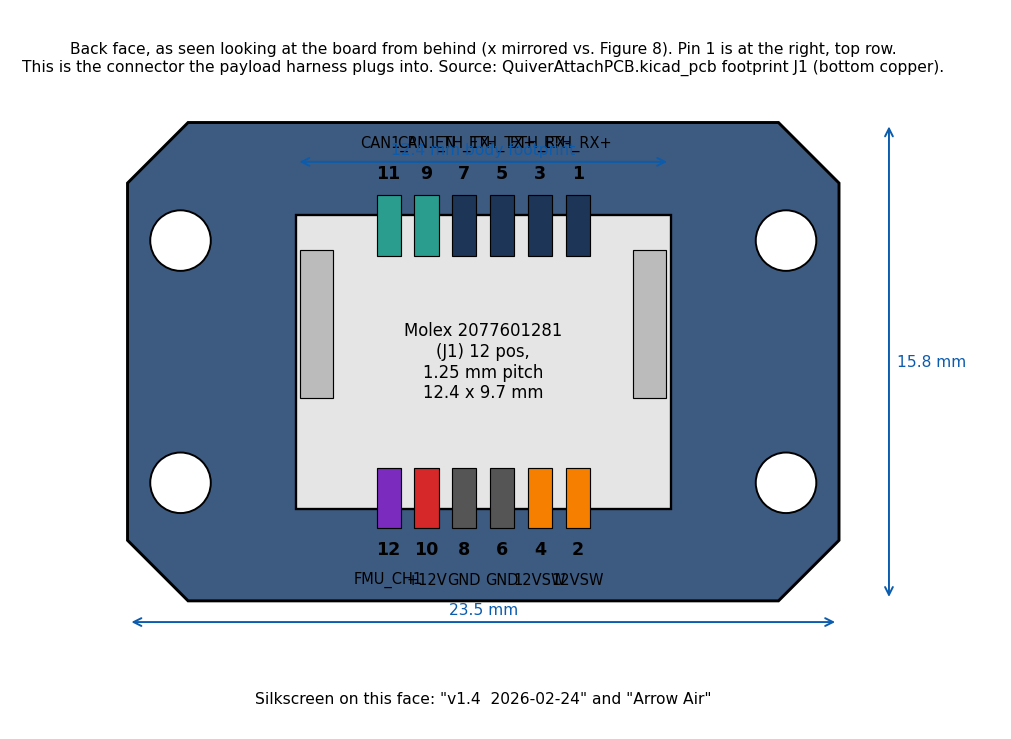
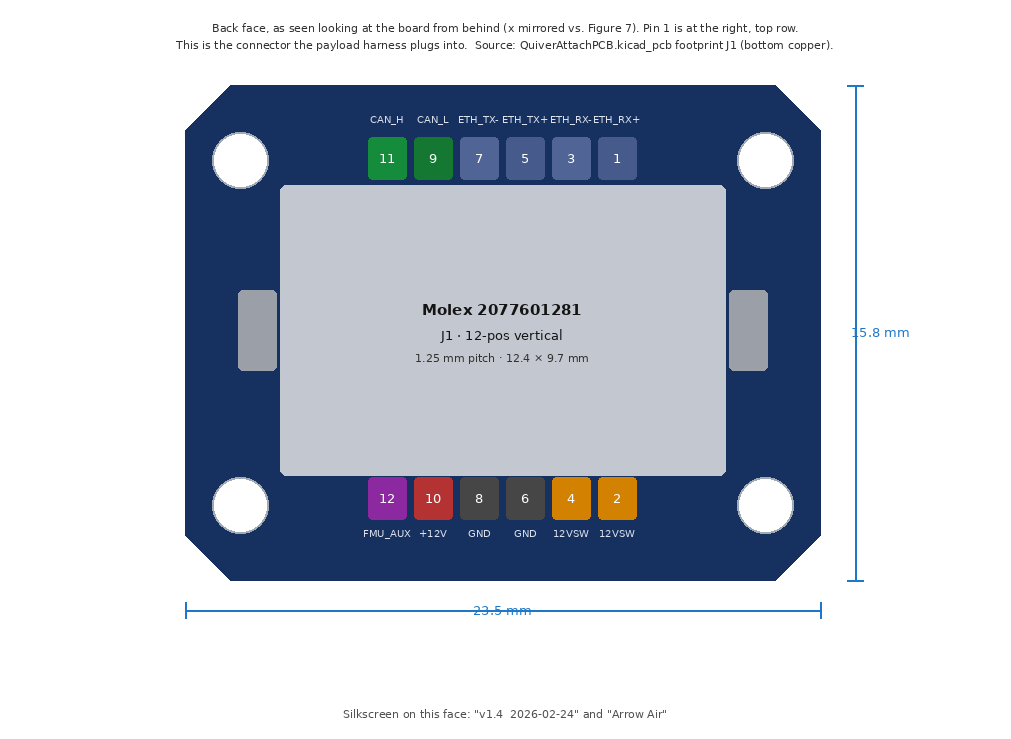
fix(docs): address PR #270 reviewer feedback on Attachment Developer Guide
- Fix fig04_ports_oblique.png: move overlapping caption text into a
  clean legend card so it no longer intersects the propeller blade
- Fix fig09_pcb_back_j1.png: completely redraw with legible pin labels,
  colour-coded pins (ETH blue, CAN green, 12V red, 12VSW orange,
  GND dark, FMU purple), and clear dimensions
- Terminology: replace 'blind-mate circuit board' with
  'Attachment Interface PCB' (§ How an Attachment Mates)
- JMRRC clamp: remove 'based on spec' wording; it IS the JMRRC
  quick-release clamp (§ 2.3)
- Figure 6 markdown: add blank line between image and caption so
  GitHub renders them correctly
- Molex J1: correct 'right-angle' to 'vertical' (§ 3.3)
- Two Ethernet switches: document both J47 (Switch 1, Bottom + Side 1)
  and J51 (Switch 2, Side 2), with J37/J38/J39 bay Ethernet headers
  added throughout §§ 3.1, 3.2, 3.5, Quick Reference
- Relay/MOSFET corrections for Main PCB V1.2 (PR #271):
    12V_PL: was SSR U5 (CPC1907B), now K2 (CPC1019N) → Q2 (SIRA99DP)
    12VSW : K1 (CPC1019N) unchanged
    HV/J26: was FMU_CH3 / SSR U4 (CPC1907B), now IO_CH7 / K3 (CPC1019N)
            → Q3 (SIR570DP) per Power_control.kicad_sch in PR #271
- Update all Main PCB file links to the V1.2 -rounded filenames
  (Quiver_PT3_Main_PCB-rounded.kicad_pcb / .kicad_sch) and add
  Power_control.kicad_sch to the Official Design Files table

diff --git a/docs/Develop-Attachments-Software/Attachment-Developer-Guide.md b/docs/Develop-Attachments-Software/Attachment-Developer-Guide.md
@@ -24,7 +24,7 @@ Each bay has the same standardized mounting footprint and electrical connection.
 
 ### How an Attachment Mates
 
-Connecting an attachment to Quiver involves two parts: a mechanical clamp and a blind-mate circuit board.
+Connecting an attachment to Quiver involves two parts: a mechanical clamp and an Attachment Interface PCB.
 
 1. **Mechanical Clamp:** You mount your payload to the drone using an off-the-shelf aluminum quick-release clamp plate pair (BOM 2112, 50 x 50 mm). The drone carries the fixed half with release levers; your payload carries the sliding base half. No tools are needed to latch or unlatch the payload once installed.
 2. **Blind-Mate Interface PCB:** Recessed inside the clamp plate is a small circuit board called the **Attachment Interface PCB** ([`QuiverAttachPCB.kicad_pcb`](../../src/pcb/attach_pcb/QuiverAttachPCB.kicad_pcb)). The drone side has spring-loaded pogo pins (`U1` to `U10`). Your payload carries an identical board populated with flat copper landing pads (`U11` to `U20`). When you slide and latch the quick-release clamp, the drone's pogo pins press against your board's landing pads.
@@ -66,9 +66,9 @@ Connecting an attachment to Quiver involves two parts: a mechanical clamp and a 
 | **CAN2** | The onboard vehicle CAN bus running at 500 kbit/s. All three payload bays connect to CAN2. CAN1 is kept separate for flight-critical motor controllers (ESCs) and GPS. |
 | **DroneCAN** | The standard open communication protocol running on CAN2. Microcontrollers on your payload join as DroneCAN nodes. |
 | **FMU** | Flight Management Unit (the ArduPilot flight controller). Each bay gets an auxiliary PWM/GPIO line from the FMU. |
-| **Switched 12V (`+12V_PL`)** | The shared 12V payload power rail (pin 10 on Molex J1), controlled by solid-state relay U5 (`FMU_CH4`). All three bays share roughly 13W total. |
-| **Motor 12V (`12VSW`)** | A secondary 12V line on the **bottom bay only** (pins 2 and 4 on Molex J1), controlled by solid-state relay K1 (`FMU_CH2`). Dedicated to driving the brush bullet DC motor payload. |
-| **Switched HV (`J26`)** | Raw 14S battery power (~50V to 58.8V) from a dedicated 2-pin connector on the Main PCB for power-hungry attachments exceeding 13W. |
+| **Switched 12V (`+12V_PL`)** | The shared 12V payload power rail (pin 10 on Molex J1), switched by SSR K2 (CPC1019N) driving MOSFET Q2, controlled via `FMU_CH4`. All three bays share roughly 13W total. |
+| **Motor 12V (`12VSW`)** | A secondary 12V line on the **bottom bay only** (pins 2 and 4 on Molex J1), switched by SSR K1 (CPC1019N), controlled via `FMU_CH2`. Dedicated to driving the brush bullet DC motor payload. |
+| **Switched HV (`J26`)** | Raw 14S battery power (~50V to 58.8V) from a dedicated 2-pin connector on the Main PCB for power-hungry attachments exceeding 13W, switched by K3/Q3, controlled via `IO_CH7`. |
 
 ---
 
@@ -154,9 +154,10 @@ To give your payload proper clearance from the aircraft body and make assembly e
 
 ### 2.3 The Quick-Release Clamp Plate (BOM 2112)
 
-Mechanically, your payload attaches via an off-the-shelf CNC aluminum quick-release clamp assembly (BOM 2112, based on the JMRRC 50 x 50 mm quick-release clamp spec):
+Mechanically, your payload attaches via the JMRRC CNC aluminum quick-release clamp assembly (BOM 2112, 50 x 50 mm):
 
 ![Figure 6: Quick Release Clamp Plate Assembly](../../docs/Manufacturing/Assembly-Guides/assets/images/structural/2112_2122_2132.png)
+
 *Figure 6: Quick-release clamp plate assembly (BOM 2112).*
 
 - **Footprint:** 50.0 mm x 50.0 mm square.
@@ -227,17 +228,28 @@ The three bays share power and CAN, but have different auxiliary lines:
 
 | Capability | Bottom Bay | Side 1 / Right Bay | Side 2 / Left Bay | Source Citation |
 |---|---|---|---|---|
-| **Main 12V Rail (`+12V_PL`)** | **Switched** (SSR U5) | **Switched** (SSR U5) | **Switched** (SSR U5) | [`Quiver_PT3_Main_PCB.kicad_sch`](../../src/pcb/main_pcb/Quiver_PT3_Main_PCB.kicad_sch) line 10733 |
-| **Motor 12V Rail (`12VSW`)** | **Switched** (SSR K1) | **No Connect (NC)** | **No Connect (NC)** | [`Quiver_PT3_Main_PCB.kicad_sch`](../../src/pcb/main_pcb/Quiver_PT3_Main_PCB.kicad_sch) lines 10713, 10817 |
-| **CAN Bus** | **CAN2** (500 kbit/s) | **CAN2** (500 kbit/s) | **CAN2** (500 kbit/s) | [`Quiver_PT3_Main_PCB.kicad_pcb`](../../src/pcb/main_pcb/Quiver_PT3_Main_PCB.kicad_pcb) (J29, J30, J31) |
-| **Ethernet 100BASE-TX** | Yes (Switch 1, J48) | Yes (Switch 1, J48) | Yes (Switch 2, J52) | [`ETHERNET.kicad_sch`](../../src/pcb/main_pcb/ETHERNET.kicad_sch) lines 3288, 3877 |
-| **FMU Aux PWM/GPIO** | `FMU_CH1` (Servo 9) | `FMU_CH7` (Servo 15) | `FMU_CH8` (Servo 16) | [`Quiver_PT3_Main_PCB.kicad_sch`](../../src/pcb/main_pcb/Quiver_PT3_Main_PCB.kicad_sch) lines 10827 to 11340 |
-| **Main PCB Header** | `J31` (PTSM 1814951) | `J29` (PTSM 1778735) | `J30` (PTSM 1778735) | [`Quiver_PT3_Main_PCB.kicad_pcb`](../../src/pcb/main_pcb/Quiver_PT3_Main_PCB.kicad_pcb) |
+| **Main 12V Rail (`+12V_PL`)** | **Switched** (K2→Q2) | **Switched** (K2→Q2) | **Switched** (K2→Q2) | [`Power_control.kicad_sch`](../../src/pcb/main_pcb/Power_control.kicad_sch) |
+| **Motor 12V Rail (`12VSW`)** | **Switched** (K1, FMU_CH2) | **No Connect (NC)** | **No Connect (NC)** | [`Power_control.kicad_sch`](../../src/pcb/main_pcb/Power_control.kicad_sch) |
+| **CAN Bus** | **CAN2** (500 kbit/s) | **CAN2** (500 kbit/s) | **CAN2** (500 kbit/s) | [`Quiver_PT3_Main_PCB-rounded.kicad_pcb`](../../src/pcb/main_pcb/Quiver_PT3_Main_PCB-rounded.kicad_pcb) (J29, J30, J31) |
+| **Ethernet 100BASE-TX** | Yes (Switch 1 J47, via J39) | Yes (Switch 1 J47, via J37) | Yes (Switch 2 J51, via J38) | [`ETHERNET.kicad_sch`](../../src/pcb/main_pcb/ETHERNET.kicad_sch) |
+| **FMU Aux PWM/GPIO** | `FMU_CH1` (Servo 9) | `FMU_CH7` (Servo 15) | `FMU_CH8` (Servo 16) | [`Quiver_PT3_Main_PCB-rounded.kicad_sch`](../../src/pcb/main_pcb/Quiver_PT3_Main_PCB-rounded.kicad_sch) |
+| **Avionics Header** | `J31` (PTSM 1814951) | `J29` (PTSM 1778735) | `J30` (PTSM 1778735) | [`Quiver_PT3_Main_PCB-rounded.kicad_pcb`](../../src/pcb/main_pcb/Quiver_PT3_Main_PCB-rounded.kicad_pcb) |
+| **Ethernet Header** | `J39` (PTSM 1814935) | `J37` (PTSM 1778719) | `J38` (PTSM 1778719) | [`ETHERNET.kicad_sch`](../../src/pcb/main_pcb/ETHERNET.kicad_sch) |
 | **Default Static IP** | `192.168.144.100` | `192.168.144.101` | `192.168.144.102` | Network Topology Spec |
 
-### 3.2 Main PCB Payload Headers (J29, J30, J31)
+### 3.2 Main PCB Payload Headers (J29, J30, J31) and Ethernet Connectors (J37, J38, J39)
 
-On the aircraft's Main PCB, each payload bay connects to a 6-pin Phoenix Contact PTSM connector:
+On the aircraft's Main PCB, each payload bay connects to a 6-pin Phoenix Contact PTSM connector for power, CAN, and FMU signals, **and** to a separate 4-pin JST-GH Ethernet connector carrying the 100BASE-TX pair:
+
+| Bay | Avionics Header (power + CAN + FMU) | Ethernet Header (100BASE-TX) |
+|---|---|---|
+| **Bottom** | `J31` (PTSM `1814951`, 6-pin) | `J39` (Phoenix PTSM `1814935`, 4-pin) |
+| **Side 1 (Right)** | `J29` (PTSM `1778735`, 6-pin) | `J37` (PTSM `1778719`, 4-pin) |
+| **Side 2 (Left)** | `J30` (PTSM `1778735`, 6-pin) | `J38` (PTSM `1778719`, 4-pin) |
+
+The avionics (J29/J30/J31) and Ethernet (J37/J38/J39) connectors are each internal to the aircraft harness; your attachment only sees the signals arriving at Molex J1 on the Attachment Interface PCB.
+
+**Avionics headers pinout (J29, J30, J31):**
 
 | Pin | Bottom Bay (`J31`) Net | Side 1 Bay (`J29`) Net | Side 2 Bay (`J30`) Net | Function |
 |:---:|---|---|---|---|
@@ -253,7 +265,7 @@ On the aircraft's Main PCB, each payload bay connects to a 6-pin Phoenix Contact
 ### 3.3 Payload Harness Connector: Molex J1 Pinout
 
 The **12-pin Molex connector (J1)** on the back of your payload board is where your attachment wiring connects:
-- **Board Header (J1):** Molex part `2077601281` (12-circuit, 1.25 mm pitch, right-angle locking connector).
+- **Board Header (J1):** Molex part `2077601281` (12-circuit, 1.25 mm pitch, vertical locking connector).
 - **Mating Cable Plug:** Molex housing `2045231201` with gold-plated crimp terminals `2045250001`.
 
 | Pin | Signal Name | Type | Electrical Rating | Description |
@@ -298,10 +310,10 @@ When you check electrical continuity with a multimeter, here is how the 10 conta
 *Figure 10: Quiver network routing showing Ethernet switches and CAN separation.*
 
 If your payload uses high-bandwidth data (video streams, raw point clouds, or network links like Starlink), use the 100BASE-TX Ethernet connection:
-- **Switch Hardware:** The Main PCB includes a BotBlox GigaBlox Nano module (`J47`, Samtec LSHM header) providing managed Ethernet switching.
+- **Switch Hardware:** The Main PCB includes **two** BotBlox GigaBlox Nano switch modules (`J47` and `J51`, Samtec LSHM headers) providing managed Ethernet switching.
 - **Port Assignment:**
-  - Bottom Bay and Side 1 Bay route to Switch 1 (`J48`, 4-pin JST-GH SM04B-GHS-TB).
-  - Side 2 Bay routes to Switch 2 (`J52`, 4-pin JST-GH SM04B-GHS-TB).
+  - **Switch 1 (`J47`):** Bottom Bay (via J39) and Side 1 Bay (via J37) route to Switch 1's managed port `J48` (4-pin JST-GH SM04B-GHS-TB).
+  - **Switch 2 (`J51`):** Side 2 Bay (via J38) routes to Switch 2's managed port `J52` (4-pin JST-GH SM04B-GHS-TB).
 - **Wiring to the Bay:** The harness carries the `ETH_TX` and `ETH_RX` pairs straight to pins 1, 3, 5, and 7 on Molex J1.
 
 ### 3.6 CAN Bus Architecture
@@ -321,7 +333,7 @@ Quiver keeps its vehicle traffic strictly separated across two independent CAN b
 
 > [!NOTE]
 > **Why the Attachment Board Silkscreen Says `CAN1_P / CAN1_N`:**
-> The Attachment Interface PCB was created as a standalone board before the Main PCB finalized its vehicle net labels. While the attachment silkscreen says `CAN1_P` and `CAN1_N`, the aircraft Main PCB wiring ([`Quiver_PT3_Main_PCB.kicad_pcb`](../../src/pcb/main_pcb/Quiver_PT3_Main_PCB.kicad_pcb)) routes all three payload ports to vehicle bus **CAN2**.
+> The Attachment Interface PCB was created as a standalone board before the Main PCB finalized its vehicle net labels. While the attachment silkscreen says `CAN1_P` and `CAN1_N`, the aircraft Main PCB wiring ([`Quiver_PT3_Main_PCB-rounded.kicad_pcb`](../../src/pcb/main_pcb/Quiver_PT3_Main_PCB-rounded.kicad_pcb)) routes all three payload ports to vehicle bus **CAN2**.
 
 - **Bus Termination:** The Main PCB already provides a switchable 120 ohm termination resistor (R14 via dip-switch S2). **Do not install a 120 ohm termination resistor inside your attachment.**
 
@@ -335,9 +347,9 @@ Quiver does not provide an always-on, unswitched battery feed on the attachment 
          ├───> [ Fuse F4 (5A) ] ───> [ Isolated DC-DC Converter (30W / 2.5A) ]
          │                                       │
          │                                       ▼ (+12V avionics supply)
-         │                           [ Relay U5 (CPC1907B) ] <── Toggled by FMU_CH4 ("12V Pay")
-         │                                       │
-         │                                       ▼
+         │                           [ SSR K2 (CPC1019N) ] <── Toggled by FMU_CH4 ("12V Pay")
+         │                                 │  (drives gate of MOSFET Q2)
+         │                                 ▼
          │                           [ PTC F8 (1.1A) + Fuse F7 (2A) ]
          │                                       │
          │                                       ├───> J31 Pin 2 (+12V_PL, Bottom)
@@ -349,15 +361,15 @@ Quiver does not provide an always-on, unswitched battery feed on the attachment 
          │              ▼
          │         [ Fuse F1 (2A) ] ───> J31 Pin 6 (12VSW, Bottom ONLY for Brush Bullet)
          │
-         └───> [ Relay U4 (CPC1907B) ] <── Toggled by FMU_CH3 ("Add HV")
-                        │
+         └───> [ SSR K3 (CPC1019N) ] <── Toggled by IO_CH7
+                        │  (drives gate of MOSFET Q3)
                         ▼
-                   [ Fuse F2 (5A) ] ───> J26 Pin 2 (Switched High-Voltage Port)
+                   [ Fuse F2 (5A) ] ───> J26 Pin 1 (AC_HV−, Switched High-Voltage Port)
 ```
 
 #### A. Main 12V Payload Rail (`+12V_PL`)
 - **Available on:** All three bays (Molex J1 pin 10; Pogo pin U6/U16).
-- **Electronic Switch:** Solid-state relay **U5 (CPC1907B)** on the Main PCB ([`Quiver_PT3_Main_PCB.kicad_sch`](../../src/pcb/main_pcb/Quiver_PT3_Main_PCB.kicad_sch) line 10733).
+- **Electronic Switch:** SSR **K2 (CPC1019N)** drives MOSFET **Q2 (SIRA99DP-T1-GE3)** on the Main PCB ([`Power_control.kicad_sch`](../../src/pcb/main_pcb/Power_control.kicad_sch)).
 - **Control Signal:** Flight controller channel **`FMU_CH4`**, labeled **`12V Pay`** in ground control software.
 - **Protection:** Protected by fast fuse **F7** (2A) and self-resetting PTC **F8** (Littelfuse `1812L110`, ~1.1A hold current, ~2.2A trip current).
 - **Safe Power Budget:** The shared `+12V_PL` rail supplies roughly **13W total continuous power combined across all three bays**. Drawing more than ~1.1A total trips PTC F8.
@@ -376,7 +388,7 @@ If your payload requires more than 13W (such as spray pumps, high-power floodlig
 - **Dedicated Switched HV Port (J26):**
   - High-power attachments tap direct flight battery power from **J26** on the Main PCB (Phoenix Contact PTSM 2-pin connector, part `1814919`).
   - Provides full 14S LiPo battery voltage (~50.0V to 58.8V DC).
-  - Switched by solid-state relay **U4 (CPC1907B)** and protected by a **5A fuse (F2)**. Controlled by relay channel `FMU_CH3` (`Add HV`).
+  - Switched by SSR **K3 (CPC1019N)** driving MOSFET **Q3 (SIR570DP-T1-RE3)**, controlled by `IO_CH7`, and protected by a **5A fuse (F2)**.
 - **Never Tap the ESC Connectors:**
   - Connectors **J25, J28, J34, and J42** (yellow XT60PW-F sockets) on the Main PCB are **strictly for motor ESCs**. Never tap or connect payloads to these ports.
 - **Local Voltage Step-Down:** High-power attachments must bring their own onboard DC-DC converter to step down the 50V battery rail to whatever local voltages their electronics need.
@@ -409,20 +421,24 @@ Before you fly your design, check these practical items:
 | **J31** | Phoenix PTSM `1814951` | Main PCB | Bottom bay avionics header (6-pin SMT). |
 | **J29** | Phoenix PTSM `1778735` | Main PCB | Side 1 (Right) bay avionics header (6-pin SMT). |
 | **J30** | Phoenix PTSM `1778735` | Main PCB | Side 2 (Left) bay avionics header (6-pin SMT). |
+| **J39** | Phoenix PTSM `1814935` | Main PCB | Bottom bay Ethernet header (4-pin SMT, 100BASE-TX to Switch 1 J47). |
+| **J37** | Phoenix PTSM `1778719` | Main PCB | Side 1 (Right) bay Ethernet header (4-pin SMT, 100BASE-TX to Switch 1 J47). |
+| **J38** | Phoenix PTSM `1778719` | Main PCB | Side 2 (Left) bay Ethernet header (4-pin SMT, 100BASE-TX to Switch 2 J51). |
 | **J26** | Phoenix PTSM `1814919` | Main PCB | Switched High-Voltage (HV) payload port (2-pin SMT, 5A fused). |
-| **J47** | GigaBlox Nano Module | Main PCB | Onboard 100BASE-TX Ethernet switch. Routes to J48 and J52. |
+| **J47** | GigaBlox Nano Module | Main PCB | **Switch 1:** Onboard 100BASE-TX Ethernet switch. Serves Bottom (J39) and Side 1 (J37) bays. Management via J48. |
+| **J51** | GigaBlox Nano Module | Main PCB | **Switch 2:** Onboard 100BASE-TX Ethernet switch. Serves Side 2 (J38) bay. Management via J52. |
 | **J25, 28, 34, 42** | Amass XT60PW-F | Main PCB | **Exclusively for Motor ESC power.** Do not connect attachments here. |
 
 ### Relays and Control Channels
 
-| Flight Controller Channel | Solid-State Relay | Rail Controlled | Function |
-|---|---|---|---|
-| **`FMU_CH4`** (`12V Pay`) | SSR U5 (`CPC1907B`) | `+12V_PL` | Main 12V payload rail across all 3 bays. Protected by F7 (2A) and PTC F8 (1.1A hold). |
-| **`FMU_CH2`** | SSR K1 (`CPC1019N`) | `12VSW` | Switched 12V motor power for **brush bullet payload** (Bottom bay J31 only). Protected by F1 (2A). |
-| **`FMU_CH3`** (`Add HV`) | SSR U4 (`CPC1907B`) | `HV` on J26 | Switched direct battery power (~50V to 58.8V) for high-power payloads. Protected by F2 (5A). |
-| **`FMU_CH1`** | Flight Controller | PWM / GPIO | Bottom bay auxiliary signal (Servo 9 in ArduPilot). |
-| **`FMU_CH7`** | Flight Controller | PWM / GPIO | Side 1 (Right) bay auxiliary signal (Servo 15 in ArduPilot). |
-| **`FMU_CH8`** | Flight Controller | PWM / GPIO | Side 2 (Left) bay auxiliary signal (Servo 16 in ArduPilot). |
+| Control Signal | SSR (Gate Driver) | MOSFET | Rail Controlled | Function |
+|---|---|---|---|---|
+| **`FMU_CH4`** (`12V Pay`) | K2 (`CPC1019N`) | Q2 (`SIRA99DP`) | `+12V_PL` | Main 12V payload rail across all 3 bays. Protected by F7 (2A) and PTC F8 (1.1A hold). |
+| **`FMU_CH2`** | K1 (`CPC1019N`) | _(direct)_ | `12VSW` | Switched 12V motor power for **brush bullet payload** (Bottom bay J31 only). Protected by F1 (2A). |
+| **`IO_CH7`** | K3 (`CPC1019N`) | Q3 (`SIR570DP`) | `AC_HV−` on J26 | Switched direct battery power (~50V to 58.8V) for high-power payloads. Protected by F2 (5A). |
+| **`FMU_CH1`** | _(flight controller output)_ | — | PWM / GPIO | Bottom bay auxiliary signal (Servo 9 in ArduPilot). |
+| **`FMU_CH7`** | _(flight controller output)_ | — | PWM / GPIO | Side 1 (Right) bay auxiliary signal (Servo 15 in ArduPilot). |
+| **`FMU_CH8`** | _(flight controller output)_ | — | PWM / GPIO | Side 2 (Left) bay auxiliary signal (Servo 16 in ArduPilot). |
 
 ### Official Board and Design Files
 
@@ -430,8 +446,9 @@ Before you fly your design, check these practical items:
 |---|---|
 | [`src/pcb/attach_pcb/QuiverAttachPCB.kicad_pcb`](../../src/pcb/attach_pcb/QuiverAttachPCB.kicad_pcb) | Physical board layout: 23.5 x 15.8 x 1.2 mm outline, pad locations, Molex J1 footprint. |
 | [`src/pcb/attach_pcb/QuiverAttachPCB.kicad_sch`](../../src/pcb/attach_pcb/QuiverAttachPCB.kicad_sch) | Attachment board schematic and pinout mapping. |
-| [`src/pcb/main_pcb/Quiver_PT3_Main_PCB.kicad_pcb`](../../src/pcb/main_pcb/Quiver_PT3_Main_PCB.kicad_pcb) | Main aircraft board routing: J29, J30, J31 pinouts confirming all bays on CAN2. |
-| [`src/pcb/main_pcb/Quiver_PT3_Main_PCB.kicad_sch`](../../src/pcb/main_pcb/Quiver_PT3_Main_PCB.kicad_sch) | Main board schematic: U5, K1, U4 relays; F1, F2, F7, F8 fuses; FMU channel wiring. |
+| [`src/pcb/main_pcb/Quiver_PT3_Main_PCB-rounded.kicad_pcb`](../../src/pcb/main_pcb/Quiver_PT3_Main_PCB-rounded.kicad_pcb) | Main aircraft board routing: J29, J30, J31 pinouts confirming all bays on CAN2. |
+| [`src/pcb/main_pcb/Quiver_PT3_Main_PCB-rounded.kicad_sch`](../../src/pcb/main_pcb/Quiver_PT3_Main_PCB-rounded.kicad_sch) | Main board schematic: top-level sheet linking sub-sheets below. |
+| [`src/pcb/main_pcb/Power_control.kicad_sch`](../../src/pcb/main_pcb/Power_control.kicad_sch) | Power switching sub-sheet: K1, K2, K3 SSRs; Q1, Q2, Q3 MOSFETs; F1, F2, F7, F8 fuses; control channels. |
 | [`src/pcb/main_pcb/CAN circuit.kicad_sch`](../../src/pcb/main_pcb/CAN%20circuit.kicad_sch) | Bus separation circuitry: CAN1 flight-critical bus vs CAN2 payload bus. |
-| [`src/pcb/main_pcb/ETHERNET.kicad_sch`](../../src/pcb/main_pcb/ETHERNET.kicad_sch) | GigaBlox switch routing to the payload bay headers. |
+| [`src/pcb/main_pcb/ETHERNET.kicad_sch`](../../src/pcb/main_pcb/ETHERNET.kicad_sch) | GigaBlox switch routing (J47, J51) to the payload bay Ethernet headers (J37, J38, J39). |
 | [`src/quiver/supporting_structure/attachment_interface/steps/`](../../src/quiver/supporting_structure/attachment_interface/steps/) | STEP files for `2111_attach_spacer.step`, `2112_attach_plate.step`, and `2131_attach_spacer_bottom.step`. |
